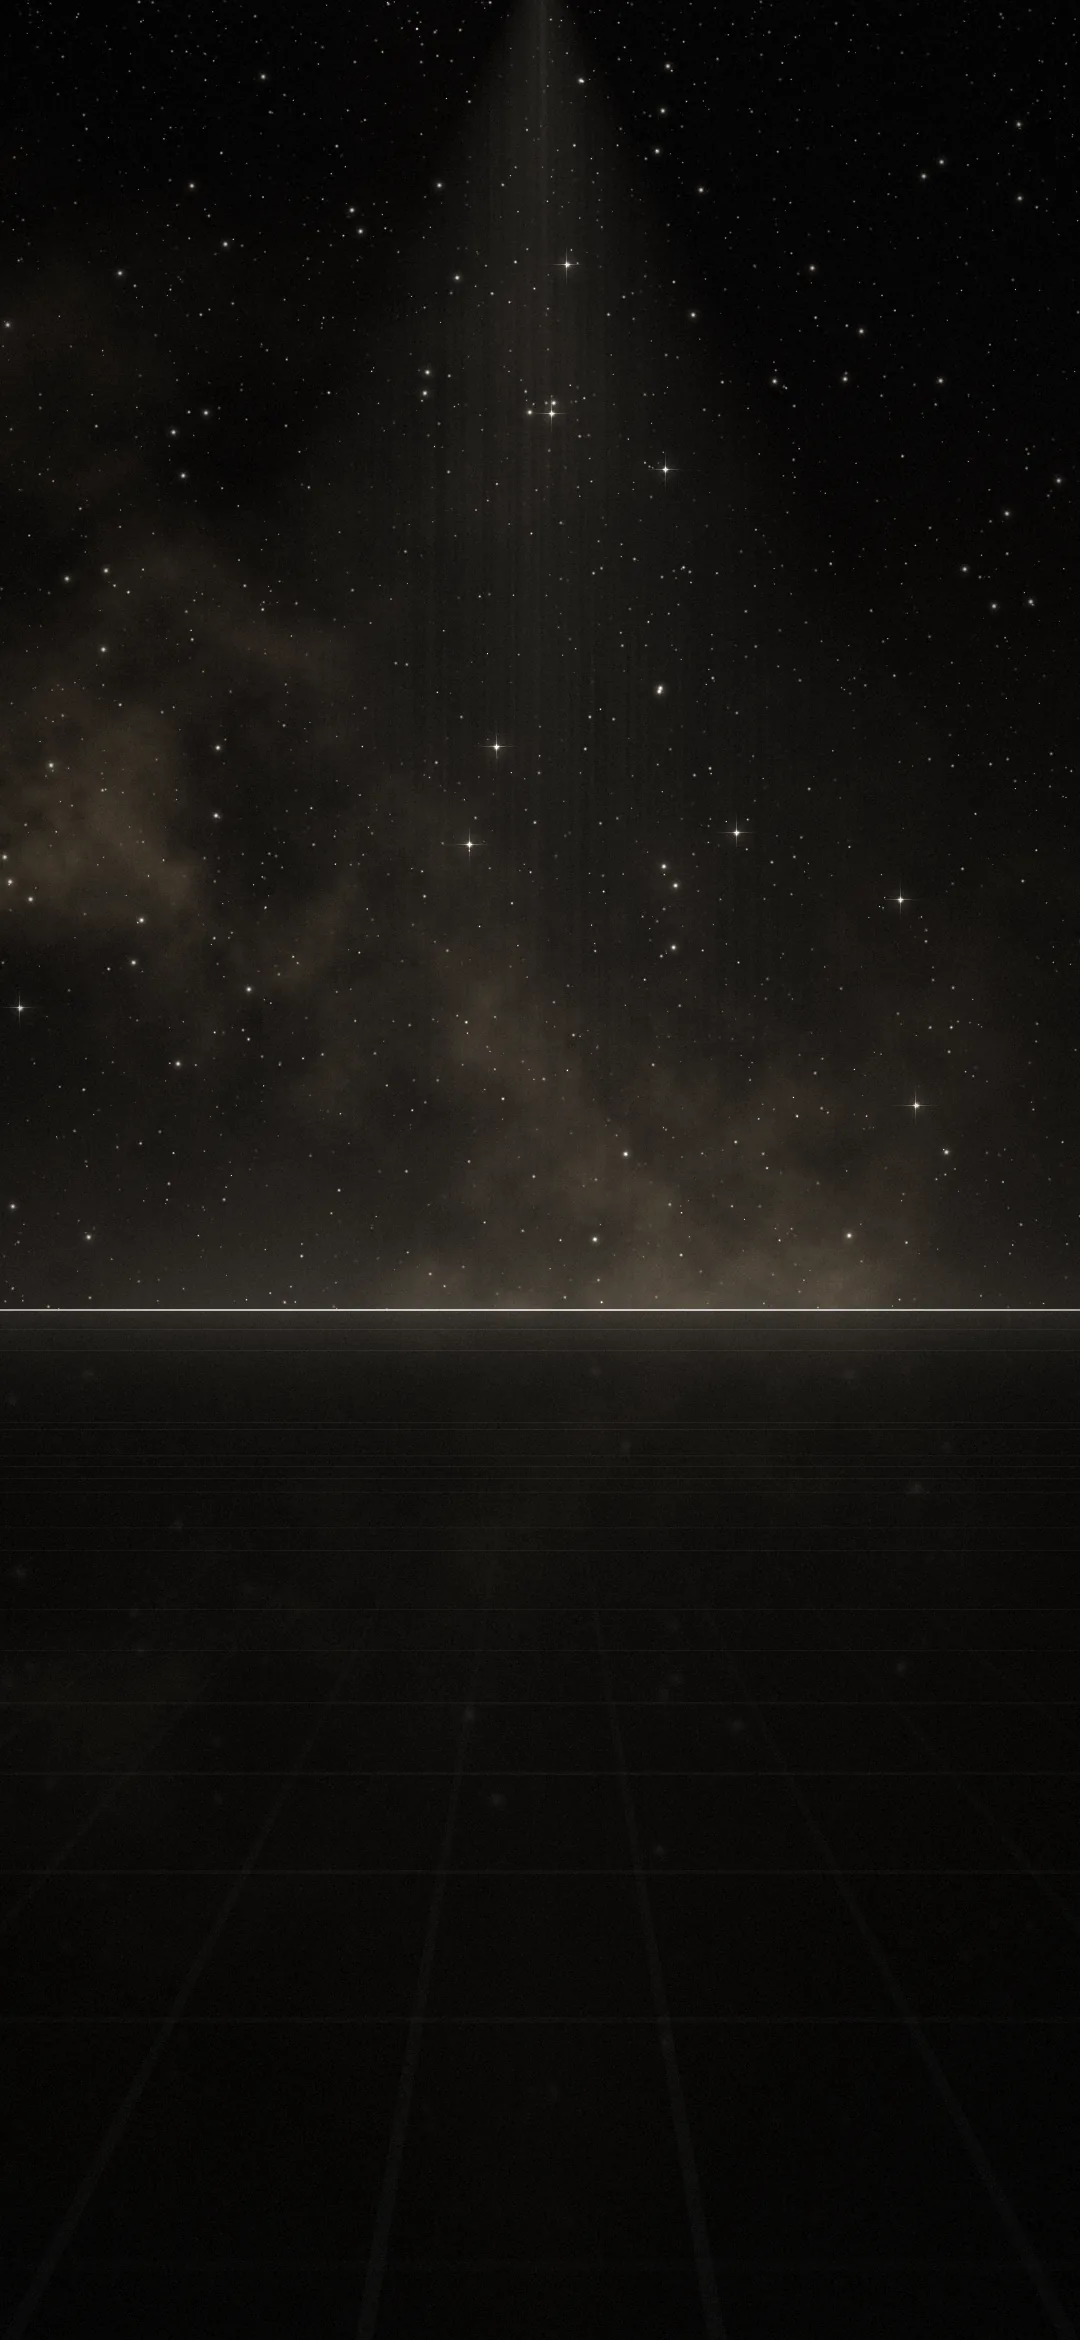
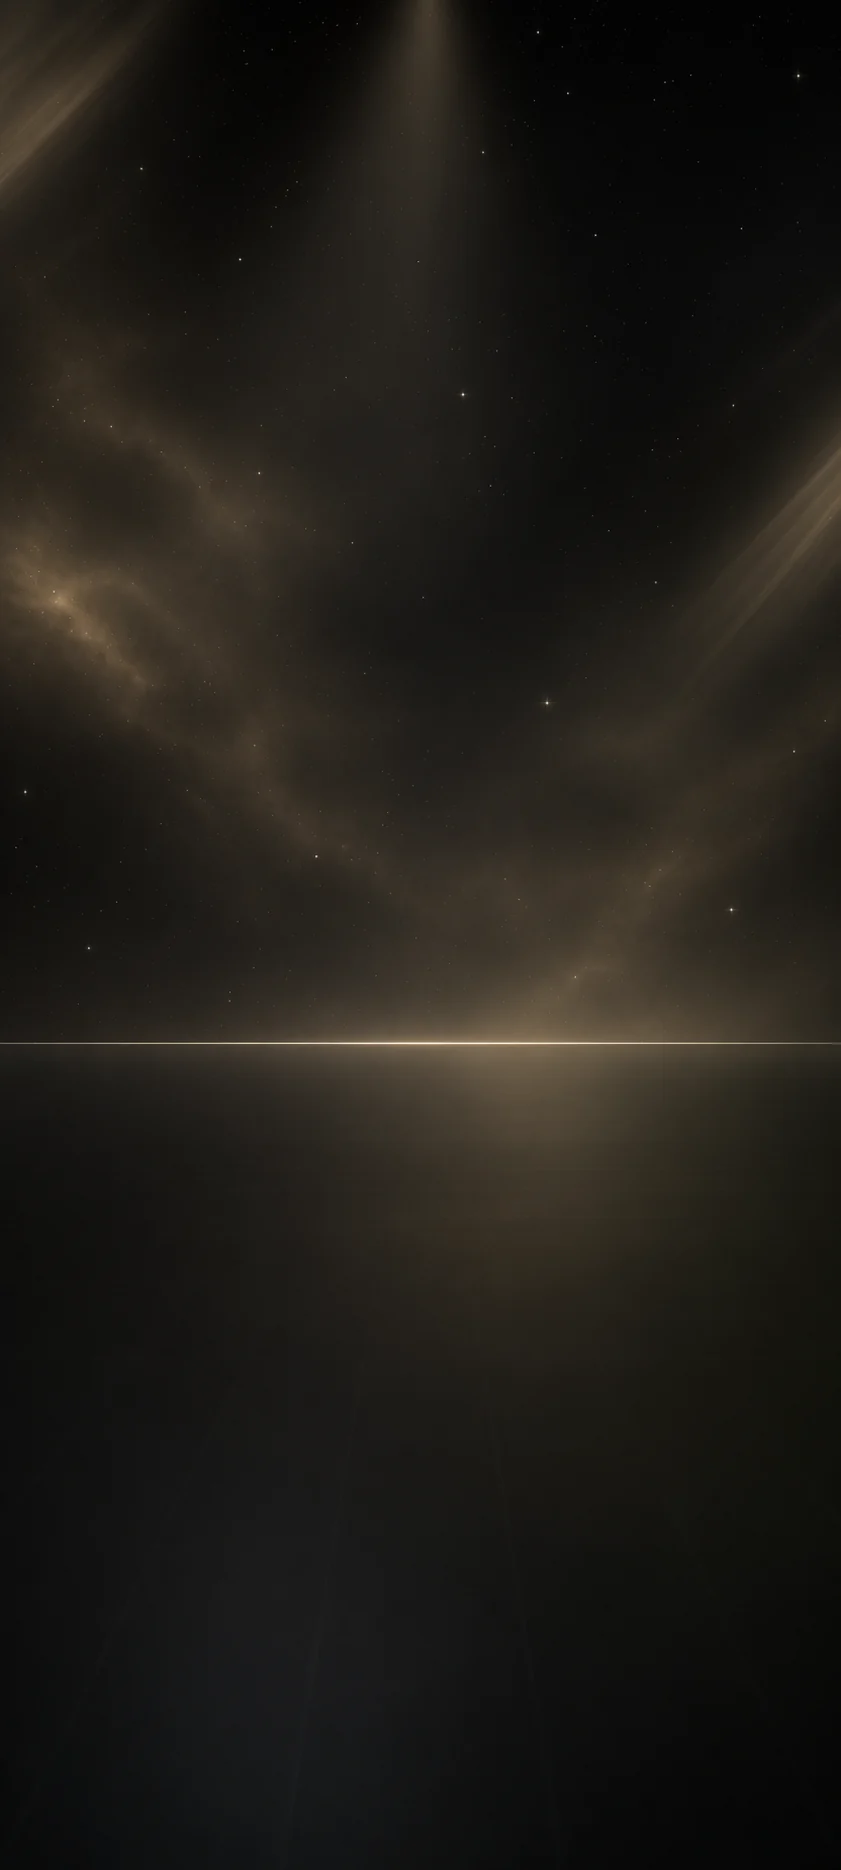
Accueil Titane : nouveau fond (horizon et ciel retouchés) et nouvel astre à anneau détouré, replacé sous le faisceau
Claude-Session: https://claude.ai/code/session_01B45CUecZk9Xiu6RkhMkpgN

diff --git a/index.html b/index.html
@@ -1084,10 +1084,10 @@ html[data-style="socle"]:is([data-theme]) .media { border-radius: 24px; box-shad
 :root[data-style="titane"] .eau ins::before { content: ""; position: absolute; right: -160px; top: -160px; width: 320px; height: 320px; border-radius: 50%; background: radial-gradient(closest-side, rgba(255,250,236,.30), rgba(255,246,228,.10) 35%, rgba(255,246,228,.03) 65%, transparent), radial-gradient(30% 1% at 50% 50%, rgba(255,252,244,.35), transparent); rotate: calc(var(--a) * -1); mix-blend-mode: screen; }
 :root[data-style="titane"] .eau ins::after { content: ""; position: absolute; right: -2px; top: -2px; width: 5px; height: 5px; border-radius: 50%; background: #FFFDF8; box-shadow: 0 0 8px 2px rgba(255,250,240,.7); }
 @keyframes filante { 0% { transform: translateX(0) scaleX(.3); opacity: 0; } 1% { opacity: 1; } 5% { opacity: .9; } 7% { transform: translateX(var(--l)) scaleX(1); opacity: 0; } 100% { transform: translateX(var(--l)) scaleX(1); opacity: 0; } }
-/* astre à anneau (outils/fond-titane.py) : image à part, placée par rapport à l'écran pour rester visible sur téléphone comme sur ordinateur
+/* astre à anneau (image retouchée, détourée) : image à part, placée par rapport à l'écran pour rester visible sur téléphone comme sur ordinateur
    (sur téléphone, dans la zone libre de l'accueil entre le titre et le bouton ⓘ) */
-:root[data-style="titane"] .eau .astre { display: block; position: absolute; left: 58.5%; top: 11%; width: min(30vw, 280px); aspect-ratio: 291 / 222; translate: -50% -50%; background: url(fonds/astre.webp) center / contain no-repeat; animation: astre 36s ease-in-out infinite alternate; }
-@media (min-width: 700px) { :root[data-style="titane"] .eau .astre { left: 82%; top: 22%; width: 300px; } }
+:root[data-style="titane"] .eau .astre { display: block; position: absolute; left: 56%; top: 11%; width: min(40vw, 380px); aspect-ratio: 720 / 363; translate: -50% -50%; background: url(fonds/astre.webp) center / contain no-repeat; animation: astre 36s ease-in-out infinite alternate; }
+@media (min-width: 700px) { :root[data-style="titane"] .eau .astre { left: 82%; top: 22%; width: 380px; } }
 @keyframes astre { from { transform: translate(0, 0); } to { transform: translate(-8px, 10px); } }
 /* paillettes : deux couches de débris (ombres d'un point, motif de 420 × 900 px répété) qui montent et dérivent sans arrêt, à deux vitesses */
 :root[data-style="titane"] .eau var { display: block; position: absolute; left: 0; top: 0; width: 1px; height: 1px; border-radius: 50%; animation: paillettes 70s linear infinite, scintille 3.2s ease-in-out infinite alternate; }
@@ -1491,44 +1491,44 @@ addEventListener("load", () => setTimeout(() => { const a = document.getElementB
 </main>
 <nav class="nav hidden" id="nav" aria-label="Navigation principale"><button id="nMenu"><svg viewBox="0 0 24 24" aria-hidden="true" fill="none" stroke="currentColor" stroke-width="2" stroke-linecap="round" stroke-linejoin="round"><path d='M3 10.5 12 3l9 7.5'/><path d='M5 9.5V20a1 1 0 0 0 1 1h4v-6h4v6h4a1 1 0 0 0 1-1V9.5'/></svg><span data-en="Home">Accueil</span></button><button id="nProgres"><svg viewBox="0 0 24 24" aria-hidden="true" fill="none" stroke="currentColor" stroke-width="2" stroke-linecap="round" stroke-linejoin="round"><path d='M4 20V10'/><path d='M10 20V4'/><path d='M16 20v-7'/><path d='M22 20H2'/></svg><span data-en="Progress">Progrès</span></button><button id="nProgs"><svg viewBox="0 0 24 24" aria-hidden="true" fill="none" stroke="currentColor" stroke-width="2" stroke-linecap="round" stroke-linejoin="round"><rect x='3' y='4' width='18' height='17' rx='3'/><path d='M8 2v4M16 2v4M3 10h18'/><path d='m9 15 2 2 4-4'/></svg><span data-en="Programmes">Programmes</span></button><button id="nOutils"><svg viewBox="0 0 24 24" aria-hidden="true" fill="none" stroke="currentColor" stroke-width="2" stroke-linecap="round" stroke-linejoin="round"><rect x="3" y="3" width="7" height="7" rx="2"/><rect x="14" y="3" width="7" height="7" rx="2"/><rect x="3" y="14" width="7" height="7" rx="2"/><path d="M17.5 14v7M14 17.5h7"/></svg><span data-en="Tools">Outils</span></button><button id="nMoi"><svg viewBox="0 0 24 24" aria-hidden="true" fill="none" stroke="currentColor" stroke-width="2" stroke-linecap="round" stroke-linejoin="round"><circle cx="12" cy="8" r="4"/><path d="M4 21c0-4.400 3.600-7 8-7s8 2.600 8 7"/></svg><span>Moi</span></button><button id="reglagesBtn"><svg viewBox="0 0 24 24" aria-hidden="true" fill="none" stroke="currentColor" stroke-width="2" stroke-linecap="round" stroke-linejoin="round"><path d="M12.22 2h-.44a2 2 0 0 0-2 2v.18a2 2 0 0 1-1 1.73l-.43.25a2 2 0 0 1-2 0l-.15-.08a2 2 0 0 0-2.73.73l-.22.38a2 2 0 0 0 .73 2.73l.15.1a2 2 0 0 1 1 1.72v.51a2 2 0 0 1-1 1.74l-.15.09a2 2 0 0 0-.73 2.73l.22.38a2 2 0 0 0 2.73.73l.15-.08a2 2 0 0 1 2 0l.43.25a2 2 0 0 1 1 1.73V20a2 2 0 0 0 2 2h.44a2 2 0 0 0 2-2v-.18a2 2 0 0 1 1-1.73l.43-.25a2 2 0 0 1 2 0l.15.08a2 2 0 0 0 2.73-.73l.22-.39a2 2 0 0 0-.73-2.73l-.15-.08a2 2 0 0 1-1-1.74v-.5a2 2 0 0 1 1-1.74l.15-.09a2 2 0 0 0 .73-2.73l-.22-.38a2 2 0 0 0-2.73-.73l-.15.08a2 2 0 0 1-2 0l-.43-.25a2 2 0 0 1-1-1.73V4a2 2 0 0 0-2-2z"/><circle cx="12" cy="12" r="3"/></svg><span data-en="Settings">Réglages</span></button></nav>
 <canvas id="confettis" aria-hidden="true"></canvas>
-<script src="consignes.js?v=2026-11-26r"></script>
-<script src="js/donnees.js?v=2026-11-26r"></script>
-<script src="js/seance.js?v=2026-11-26r"></script>
-<script src="js/progres.js?v=2026-11-26r"></script>
-<script src="js/catalogue.js?v=2026-11-26r"></script>
-<script src="js/profil.js?v=2026-11-26r"></script>
-<script src="js/anatomie.js?v=2026-11-26r"></script>
-<script src="js/evenements.js?v=2026-11-26r"></script>
-<script src="js/outils.js?v=2026-11-26r"></script>
-<script src="js/cardio.js?v=2026-11-26r"></script>
-<script src="js/chronos.js?v=2026-11-26r"></script>
-<script src="js/sports.js?v=2026-11-26r"></script>
-<script src="js/sport.js?v=2026-11-26r"></script>
-<script src="js/boxe.js?v=2026-11-26r"></script>
-<script src="js/foot.js?v=2026-11-26r"></script>
-<script src="js/course.js?v=2026-11-26r"></script>
-<script src="js/trail.js?v=2026-11-26r"></script>
-<script src="js/athle.js?v=2026-11-26r"></script>
-<script src="js/basket.js?v=2026-11-26r"></script>
-<script src="js/tennis.js?v=2026-11-26r"></script>
-<script src="js/padel.js?v=2026-11-26r"></script>
-<script src="js/handball.js?v=2026-11-26r"></script>
-<script src="js/volley.js?v=2026-11-26r"></script>
-<script src="js/cyclisme.js?v=2026-11-26r"></script>
-<script src="js/natation.js?v=2026-11-26r"></script>
-<script src="js/escalade.js?v=2026-11-26r"></script>
-<script src="js/ski.js?v=2026-11-26r"></script>
-<script src="js/surf.js?v=2026-11-26r"></script>
-<script src="js/pilates.js?v=2026-11-26r"></script>
-<script src="js/jeu.js?v=2026-11-26r"></script>
-<script src="js/moi.js?v=2026-11-26r"></script>
-<script src="js/forme.js?v=2026-11-26r"></script>
-<script src="js/masemaine.js?v=2026-11-26r"></script>
-<script src="js/apercus.js?v=2026-11-26r"></script>
-<script src="js/guide.js?v=2026-11-26r"></script>
-<script src="js/clubs.js?v=2026-11-26r"></script>
-<script src="js/coach.js?v=2026-11-26r"></script>
-<script src="js/semaine1.js?v=2026-11-26r"></script>
-<script src="js/planete.js?v=2026-11-26r"></script>
+<script src="consignes.js?v=2026-11-26t"></script>
+<script src="js/donnees.js?v=2026-11-26t"></script>
+<script src="js/seance.js?v=2026-11-26t"></script>
+<script src="js/progres.js?v=2026-11-26t"></script>
+<script src="js/catalogue.js?v=2026-11-26t"></script>
+<script src="js/profil.js?v=2026-11-26t"></script>
+<script src="js/anatomie.js?v=2026-11-26t"></script>
+<script src="js/evenements.js?v=2026-11-26t"></script>
+<script src="js/outils.js?v=2026-11-26t"></script>
+<script src="js/cardio.js?v=2026-11-26t"></script>
+<script src="js/chronos.js?v=2026-11-26t"></script>
+<script src="js/sports.js?v=2026-11-26t"></script>
+<script src="js/sport.js?v=2026-11-26t"></script>
+<script src="js/boxe.js?v=2026-11-26t"></script>
+<script src="js/foot.js?v=2026-11-26t"></script>
+<script src="js/course.js?v=2026-11-26t"></script>
+<script src="js/trail.js?v=2026-11-26t"></script>
+<script src="js/athle.js?v=2026-11-26t"></script>
+<script src="js/basket.js?v=2026-11-26t"></script>
+<script src="js/tennis.js?v=2026-11-26t"></script>
+<script src="js/padel.js?v=2026-11-26t"></script>
+<script src="js/handball.js?v=2026-11-26t"></script>
+<script src="js/volley.js?v=2026-11-26t"></script>
+<script src="js/cyclisme.js?v=2026-11-26t"></script>
+<script src="js/natation.js?v=2026-11-26t"></script>
+<script src="js/escalade.js?v=2026-11-26t"></script>
+<script src="js/ski.js?v=2026-11-26t"></script>
+<script src="js/surf.js?v=2026-11-26t"></script>
+<script src="js/pilates.js?v=2026-11-26t"></script>
+<script src="js/jeu.js?v=2026-11-26t"></script>
+<script src="js/moi.js?v=2026-11-26t"></script>
+<script src="js/forme.js?v=2026-11-26t"></script>
+<script src="js/masemaine.js?v=2026-11-26t"></script>
+<script src="js/apercus.js?v=2026-11-26t"></script>
+<script src="js/guide.js?v=2026-11-26t"></script>
+<script src="js/clubs.js?v=2026-11-26t"></script>
+<script src="js/coach.js?v=2026-11-26t"></script>
+<script src="js/semaine1.js?v=2026-11-26t"></script>
+<script src="js/planete.js?v=2026-11-26t"></script>
 </body>
 </html>

diff --git a/sw.js b/sw.js
@@ -4,8 +4,8 @@
    - Vignettes des listes (vignettes/*.webp) : cache « 2work-vignettes », rempli au fil de l'affichage, conservé entre les versions.
    - Voix 2 WORK (voix/<langue>/*.mp3) : cache « 2work-voix », rempli au fil des séances, conservé entre les versions.
    Changer V à chaque mise en ligne d'une nouvelle version. */
-const V = "2work-v2026-11-26r", VIDEOS = "2work-videos", VIGNETTES = "2work-vignettes", ETAT = "2work-etat", VOIX = "2work-voix";
-const COQUILLE = ["./", "./index.html", "./manifest.webmanifest", "./icons/icon-192.png", "./icons/icon-512.png", "./icons/apple-touch-icon.png", "./icons/favicon-64.png", "./icons/logo.png", "./icons/qr.png", "./consignes.js?v=2026-11-26r", "./js/donnees.js?v=2026-11-26r", "./js/seance.js?v=2026-11-26r", "./js/volume.js?v=2026-11-26r", "./js/progres.js?v=2026-11-26r", "./js/catalogue.js?v=2026-11-26r", "./js/profil.js?v=2026-11-26r", "./js/anatomie.js?v=2026-11-26r", "./js/evenements.js?v=2026-11-26r", "./js/outils.js?v=2026-11-26r", "./js/cardio.js?v=2026-11-26r", "./js/chronos.js?v=2026-11-26r", "./js/sports.js?v=2026-11-26r", "./js/sport.js?v=2026-11-26r", "./js/boxe.js?v=2026-11-26r", "./js/foot.js?v=2026-11-26r", "./js/course.js?v=2026-11-26r", "./js/trail.js?v=2026-11-26r", "./js/athle.js?v=2026-11-26r", "./js/basket.js?v=2026-11-26r", "./js/tennis.js?v=2026-11-26r", "./js/padel.js?v=2026-11-26r", "./js/handball.js?v=2026-11-26r", "./js/volley.js?v=2026-11-26r", "./js/cyclisme.js?v=2026-11-26r", "./js/natation.js?v=2026-11-26r", "./js/escalade.js?v=2026-11-26r", "./js/ski.js?v=2026-11-26r", "./js/surf.js?v=2026-11-26r", "./js/pilates.js?v=2026-11-26r", "./js/jeu.js?v=2026-11-26r", "./js/moi.js?v=2026-11-26r", "./js/forme.js?v=2026-11-26r", "./js/masemaine.js?v=2026-11-26r", "./js/apercus.js?v=2026-11-26r", "./js/guide.js?v=2026-11-26r", "./js/clubs.js?v=2026-11-26r", "./js/coach.js?v=2026-11-26r", "./js/semaine1.js?v=2026-11-26r", "./js/planete.js?v=2026-11-26r", "./js/serveur.js?v=2026-11-26r", "./fonds/chaud.webp", "./fonds/titane.webp", "./fonds/polaire-pic.webp", "./fonds/polaire-anneaux.webp", "./fonds/polaire-lac.webp", "./fonds/astre.webp", "./fonds/eclat1.webp", "./fonds/eclat2.webp", "./fonds/eclat3.webp", "./fonds/eclat4.webp", "./fonds/eclat5.webp", "./fonds/eclat6.webp", "./fonds/vert.webp", "./fonds/bleu.webp",
+const V = "2work-v2026-11-26t", VIDEOS = "2work-videos", VIGNETTES = "2work-vignettes", ETAT = "2work-etat", VOIX = "2work-voix";
+const COQUILLE = ["./", "./index.html", "./manifest.webmanifest", "./icons/icon-192.png", "./icons/icon-512.png", "./icons/apple-touch-icon.png", "./icons/favicon-64.png", "./icons/logo.png", "./icons/qr.png", "./consignes.js?v=2026-11-26t", "./js/donnees.js?v=2026-11-26t", "./js/seance.js?v=2026-11-26t", "./js/volume.js?v=2026-11-26t", "./js/progres.js?v=2026-11-26t", "./js/catalogue.js?v=2026-11-26t", "./js/profil.js?v=2026-11-26t", "./js/anatomie.js?v=2026-11-26t", "./js/evenements.js?v=2026-11-26t", "./js/outils.js?v=2026-11-26t", "./js/cardio.js?v=2026-11-26t", "./js/chronos.js?v=2026-11-26t", "./js/sports.js?v=2026-11-26t", "./js/sport.js?v=2026-11-26t", "./js/boxe.js?v=2026-11-26t", "./js/foot.js?v=2026-11-26t", "./js/course.js?v=2026-11-26t", "./js/trail.js?v=2026-11-26t", "./js/athle.js?v=2026-11-26t", "./js/basket.js?v=2026-11-26t", "./js/tennis.js?v=2026-11-26t", "./js/padel.js?v=2026-11-26t", "./js/handball.js?v=2026-11-26t", "./js/volley.js?v=2026-11-26t", "./js/cyclisme.js?v=2026-11-26t", "./js/natation.js?v=2026-11-26t", "./js/escalade.js?v=2026-11-26t", "./js/ski.js?v=2026-11-26t", "./js/surf.js?v=2026-11-26t", "./js/pilates.js?v=2026-11-26t", "./js/jeu.js?v=2026-11-26t", "./js/moi.js?v=2026-11-26t", "./js/forme.js?v=2026-11-26t", "./js/masemaine.js?v=2026-11-26t", "./js/apercus.js?v=2026-11-26t", "./js/guide.js?v=2026-11-26t", "./js/clubs.js?v=2026-11-26t", "./js/coach.js?v=2026-11-26t", "./js/semaine1.js?v=2026-11-26t", "./js/planete.js?v=2026-11-26t", "./js/serveur.js?v=2026-11-26t", "./fonds/chaud.webp", "./fonds/titane.webp", "./fonds/polaire-pic.webp", "./fonds/polaire-anneaux.webp", "./fonds/polaire-lac.webp", "./fonds/astre.webp", "./fonds/eclat1.webp", "./fonds/eclat2.webp", "./fonds/eclat3.webp", "./fonds/eclat4.webp", "./fonds/eclat5.webp", "./fonds/eclat6.webp", "./fonds/vert.webp", "./fonds/bleu.webp",
   ...["barlow-latin-400", "barlow-latin-500", "barlow-latin-600", "barlow-latin-700", "barlow-condensed-latin-600", "barlow-condensed-latin-700", "barlow-condensed-latin-800"].map(f => `./fonts/${f}-normal.woff2`)];
 self.addEventListener("install", e => e.waitUntil(caches.open(V).then(c => c.addAll(COQUILLE.map(u => new Request(u, { cache: "reload" })))).then(() => self.skipWaiting())));   // « reload » : jamais la copie du cache HTTP, toujours le serveur
 self.addEventListener("activate", e => e.waitUntil(caches.keys().then(l => Promise.all(l.filter(n => ![V, VIDEOS, VIGNETTES, ETAT, VOIX].includes(n)).map(n => caches.delete(n)))).then(() => self.clients.claim())));
